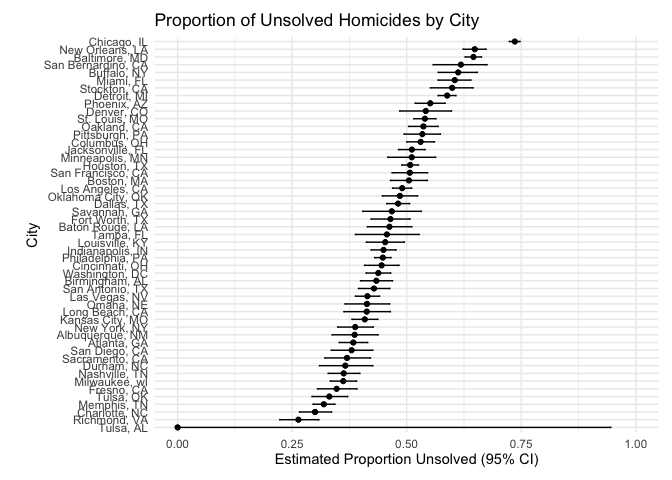
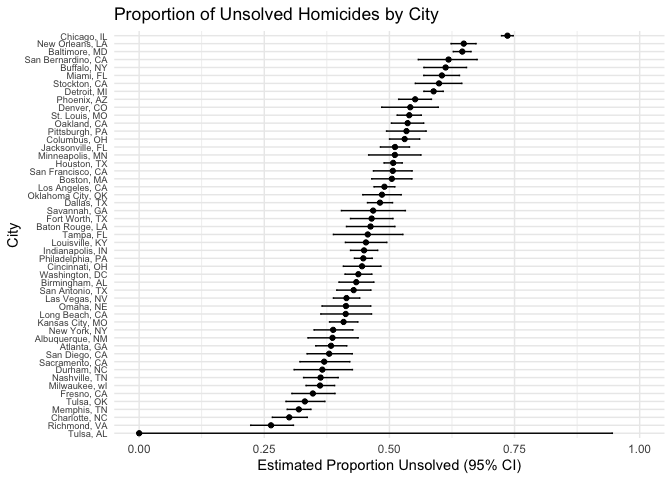
Changes to font size on graph

Changed region(s): [[0.0, 0.0, 1.0, 1.0], [0.5938, 0.6562, 0.625, 0.7188], [0.25, 0.6562, 0.2812, 0.7188]]

diff --git a/p8105_hw5_kiu2103.git.md b/p8105_hw5_kiu2103.git.md
@@ -194,7 +194,7 @@ city_results |>
   ) +
   theme_minimal()+
   theme(
-  plot.margin = margin(t = 10, r = 10, b = 10, l = 20),
+    axis.text.y = element_text(size = 7),
   )
 ```
 
